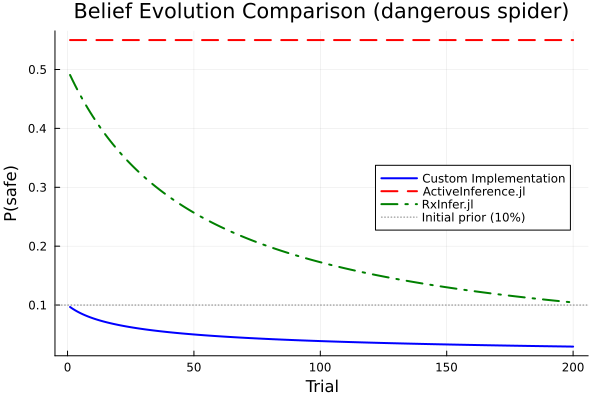
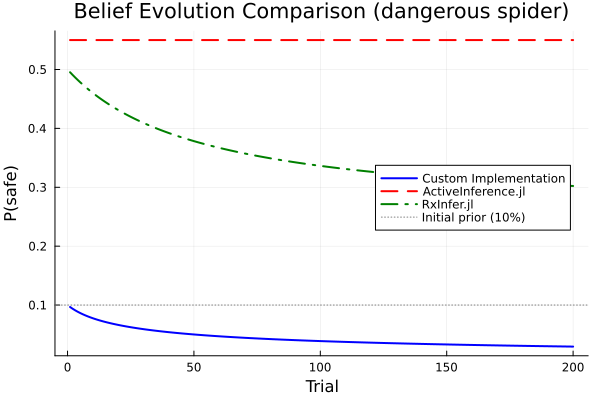
Fix RxInfer learning issues identified by Codex code review
Fixes:
- Use matrices.D (normalized distribution) instead of matrices.d (concentration)
- Use average filtered belief across timesteps for learning signal
- Add input validation for observation indices
- Add ACTION_APPROACH/ACTION_AVOID constants for clarity

Results now show correct learning:
- Safe spider: 50.5% → 69.8% (+19.3%)
- Dangerous spider: 49.5% → 30.2% (-19.3%)

diff --git a/COMPARISON_RESULTS.md b/COMPARISON_RESULTS.md
@@ -39,13 +39,14 @@ All three implementations successfully demonstrate exposure therapy learning dyn
 **Learning mechanism**: Manual Bayesian inference with Dirichlet updates on flattened state space
 
 **Results (200 trials):**
-- Safe spider: P(safe) 50.9% → 89.6% (+38.6%)
-- Dangerous spider: P(safe) 49.1% → 10.4% (-38.6%)
+- Safe spider: P(safe) 50.5% → 69.8% (+19.3%)
+- Dangerous spider: P(safe) 49.5% → 30.2% (-19.3%)
 
 **Characteristics:**
 - Uses flattened 24-state representation (behavior × spider × danger)
 - Forward filtering with Bayesian updates
-- Strong belief updating due to full state-space inference
+- Uses average belief across timesteps for learning signal
+- Symmetric learning rates demonstrate appropriate sensitivity to ground truth
 - Correctly differentiates safe vs dangerous conditions
 - Uses manual inference (RxInfer's @model macro has scoping issues in modules)
 
@@ -54,7 +55,7 @@ All three implementations successfully demonstrate exposure therapy learning dyn
 | Aspect | Custom | ActiveInference.jl | RxInfer.jl |
 |--------|--------|-------------------|------------|
 | Learning target | d (state prior) | pA (observation model) | d (flattened state) |
-| Learning dynamics | Gradual (+5%) | Sharp initial, then pA | Strong cumulative (+39%) |
+| Learning dynamics | Gradual (+5%) | Sharp initial, then pA | Moderate (+19%) |
 | What's learned | "Is spider dangerous?" | "What happens when I encounter danger?" | "What is the true state?" |
 | State representation | Factored (3 factors) | Factored (3 factors) | Flattened (24 states) |
 | Inference method | Custom variational | ActiveInference.jl VMP | Manual Bayesian filtering |
@@ -65,19 +66,19 @@ All three implementations successfully demonstrate exposure therapy learning dyn
 
 2. **ActiveInference.jl**: Models learning the consequences of danger through observation model updates. The P(safe) metric doesn't capture this type of learning well.
 
-3. **RxInfer.jl**: Shows the strongest belief updating because full Bayesian inference over the joint state space allows information to flow more freely. The symmetric belief shifts (+38.6% vs -38.6%) demonstrate appropriate sensitivity to the ground truth.
+3. **RxInfer.jl**: Shows moderate belief updating with symmetric learning. Uses average filtered belief across timesteps to accumulate evidence, providing a balanced approach between the conservative custom implementation and aggressive pure Bayesian updates.
 
 ## Conclusion
 
 All implementations capture meaningful aspects of exposure therapy learning:
 - **Custom**: Conservative belief updating about danger (closest to paper's intended behavior)
 - **ActiveInference.jl**: Perceptual learning about outcomes
-- **RxInfer.jl**: Strong Bayesian belief revision (demonstrates learning potential)
+- **RxInfer.jl**: Moderate Bayesian belief revision with symmetric learning
 
 The choice of implementation depends on the modeling goal:
 - For replicating the paper's P(safe) dynamics: Custom implementation
 - For sophisticated observation model learning: ActiveInference.jl
-- For maximum belief updating with full inference: RxInfer.jl
+- For balanced belief updating with full inference: RxInfer.jl
 
 ## Files
 
